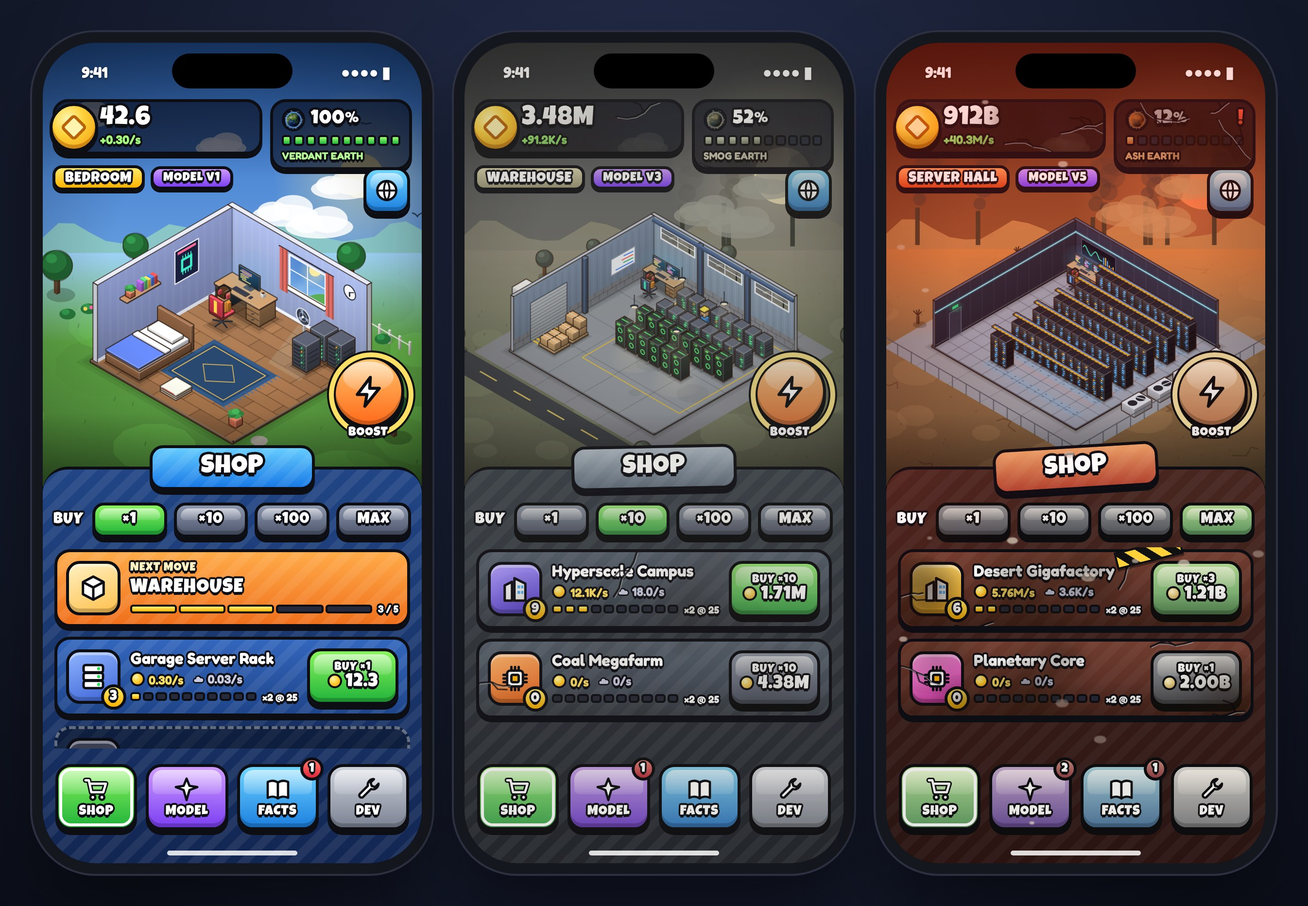
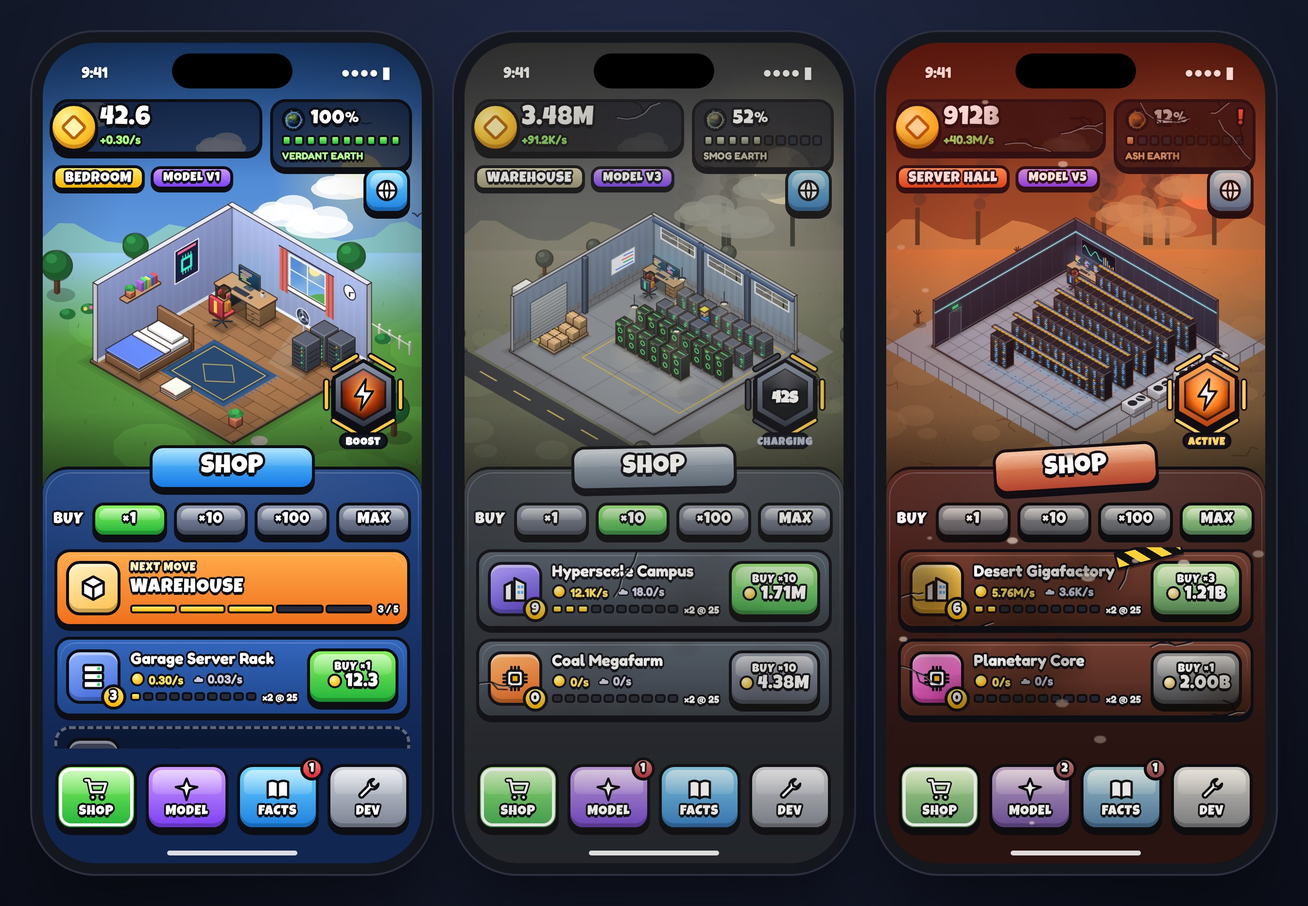
Overclock: hexagon BOOST chip and cleaner shop panels
Replace the round boost button with a hexagon power chip (gunmetal rim,
glowing core, six charge segments, countdown while charging). Drop the
diagonal stripes from the shop panel, cards and title sign in favour of
clean gradients, a soft top sheen and a fine inner highlight line.

Claude-Session: https://claude.ai/code/session_019oEr4YfADVvZkBAHFHi6AN

diff --git a/Overclock.swiftpm/ContentView.swift b/Overclock.swiftpm/ContentView.swift
@@ -286,37 +286,59 @@ struct BoostButton: View {
         let ready = game.overclockReady
         let activeLeft = max(0, game.overclockUntil.timeIntervalSince(now))
         let coolLeft = max(0, game.overclockReadyAt.timeIntervalSince(now))
-        let progress: Double = active ? activeLeft / Config.overclockSeconds : (ready ? 1 : 1 - coolLeft / Config.overclockCooldown)
-        let label = active ? "\(Int(activeLeft.rounded(.up)))s" : (ready ? "BOOST" : "\(Int(coolLeft.rounded(.up)))s")
-        let face = Arcade.colors(ready || active ? .orange : .slate, decay: 1 - health / 100)
-        let ring = ready || active ? Color(red: 1, green: 0.88, blue: 0.4) : Color(white: 0.75)
+        let charge: Double = active ? activeLeft / Config.overclockSeconds : (ready ? 1 : 1 - coolLeft / Config.overclockCooldown)
+        let lit = Int((min(1, max(0, charge)) * 6).rounded(.down))
+        let decay = 1 - health / 100
+        let rim: (RGB, RGB) = active ? (RGB(1, 0.69, 0.36), RGB(0.72, 0.25, 0.05)) : (RGB(0.56, 0.6, 0.68), RGB(0.17, 0.19, 0.24))
+        let core: [Color] = active
+            ? [Color(red: 1, green: 0.88, blue: 0.54), Color(red: 1, green: 0.48, blue: 0.1), Color(red: 0.35, green: 0.09, blue: 0.02)]
+            : (ready
+                ? [Color(red: 1, green: 0.6, blue: 0.24), Color(red: 0.66, green: 0.2, blue: 0.04), Color(red: 0.16, green: 0.05, blue: 0.02)]
+                : [Color(red: 0.23, green: 0.25, blue: 0.3), Color(red: 0.08, green: 0.09, blue: 0.11)])
+        let segmentOn = active ? Color(red: 1, green: 0.83, blue: 0.42) : Color(red: 1, green: 0.78, blue: 0.27)
+        let label = active ? "ACTIVE" : (ready ? "BOOST" : "CHARGING")
+        let labelColor = active ? Color(red: 1, green: 0.83, blue: 0.42) : (ready ? Color.white : Color(white: 0.7))
+        let pulse = active ? 0.5 + 0.5 * sin(now.timeIntervalSinceReferenceDate * 8) : 0
         Button {
             game.overclock()
         } label: {
-            ZStack {
-                Circle().stroke(Arcade.ink, lineWidth: 9)
-                    .frame(width: 84, height: 84)
-                Circle().trim(from: 0, to: min(1, max(0, progress)))
-                    .stroke(ring, style: StrokeStyle(lineWidth: 5, lineCap: .round))
-                    .rotationEffect(.degrees(-90))
-                    .frame(width: 84, height: 84)
-                OutlinedSymbol("bolt.fill", size: 30)
-                    .frame(width: 70, height: 70)
-                    .background(ArcadeFace(top: face.0, bottom: face.1, radius: 35))
-                    .background(Circle().fill(Arcade.ink).offset(y: 4))
-                    .scaleEffect(active ? 1 + 0.05 * sin(now.timeIntervalSinceReferenceDate * 10) : 1)
+            VStack(spacing: 0) {
+                ZStack {
+                    ChargeSegments(lit: lit, on: segmentOn)
+                    Hexagon(corner: 7).fill(Arcade.ink)
+                        .frame(width: 70, height: 70)
+                        .offset(y: 4)
+                    Hexagon(corner: 7)
+                        .fill(LinearGradient(colors: [Arcade.weathered(rim.0, decay).color, Arcade.weathered(rim.1, decay).color], startPoint: .top, endPoint: .bottom))
+                        .frame(width: 70, height: 70)
+                    Hexagon(corner: 7).stroke(Arcade.ink, lineWidth: 3.5)
+                        .frame(width: 70, height: 70)
+                    Hexagon(corner: 5)
+                        .fill(RadialGradient(colors: core, center: UnitPoint(x: 0.5, y: 0.42), startRadius: 0, endRadius: 32))
+                        .frame(width: 52, height: 52)
+                    Hexagon(corner: 5)
+                        .fill(LinearGradient(colors: [Color.white.opacity(0.35), Color.white.opacity(0)], startPoint: .top, endPoint: .center))
+                        .frame(width: 52, height: 52)
+                    Hexagon(corner: 5).stroke(Arcade.ink.opacity(0.8), lineWidth: 2)
+                        .frame(width: 52, height: 52)
+                    if ready || active {
+                        OutlinedSymbol("bolt.fill", size: 22)
+                            .shadow(color: Color(red: 1, green: 0.7, blue: 0.28).opacity(0.55 + 0.45 * pulse), radius: 5 + 4 * pulse)
+                    } else {
+                        StrokeText("\(Int(coolLeft.rounded(.up)))s", size: 16)
+                    }
+                }
+                .frame(width: 90, height: 90)
+                StrokeText(label, size: 11, color: labelColor, stroke: 1.2)
+                    .padding(.horizontal, 6)
+                    .background(Capsule().fill(Color(red: 0.03, green: 0.05, blue: 0.11).opacity(0.85)))
+                    .overlay(Capsule().strokeBorder(Arcade.ink, lineWidth: 2.5))
+                    .offset(y: -6)
             }
-            .frame(width: 92, height: 92)
         }
         .buttonStyle(PressScale())
         .disabled(!ready)
-        .overlay(alignment: .bottom) {
-            StrokeText(label, size: 14)
-                .offset(y: 16)
-                .allowsHitTesting(false)
-        }
-        .padding(.bottom, 12)
-        .accessibilityLabel(ready ? "Boost: double income and triple pollution for 10 seconds" : "Boost recharging")
+        .accessibilityLabel(ready ? "Boost: double income and triple pollution for 10 seconds" : (active ? "Boost active" : "Boost charging"))
     }
 }
 
@@ -351,9 +373,14 @@ struct ShopSheet: View {
         }
         .background(
             ZStack {
-                shape.fill(LinearGradient(colors: [Palette.c(Arcade.bodyTop, health), Palette.c(Arcade.bodyBottom, health)], startPoint: .top, endPoint: .bottom))
-                Stripes(opacity: 0.07 - 0.04 * decay).clipShape(shape)
+                shape.fill(LinearGradient(colors: [Palette.c(Arcade.bodyTop, health), Palette.c(Arcade.bodyBottom, health)],
+                                          startPoint: .top, endPoint: UnitPoint(x: 0.5, y: 0.7)))
+                shape.fill(RadialGradient(colors: [Color.white.opacity(0.10 - 0.04 * decay), Color.white.opacity(0)],
+                                          center: .top, startRadius: 0, endRadius: 240))
                 Wear(seed: 11).clipShape(shape)
+                TopRounded(radius: 23)
+                    .stroke(LinearGradient(colors: [Color.white.opacity(0.2), Color.white.opacity(0)], startPoint: .top, endPoint: UnitPoint(x: 0.5, y: 0.25)), lineWidth: 1.5)
+                    .padding(3)
                 shape.stroke(Arcade.ink, lineWidth: 3)
             }
             .ignoresSafeArea(edges: .bottom)
@@ -378,10 +405,8 @@ struct TitleBlock: View {
             .frame(height: 48)
             .background(
                 ZStack {
-                    shape.fill(LinearGradient(colors: [Palette.c(Arcade.headerTop, health), Palette.c(Arcade.headerBottom, health)], startPoint: .top, endPoint: .bottom))
-                    Stripes(opacity: 0.12).clipShape(shape)
+                    ArcadeFace(top: Palette.c(Arcade.headerTop, health), bottom: Palette.c(Arcade.headerBottom, health), radius: 14)
                     Wear(seed: 5).clipShape(shape)
-                    shape.strokeBorder(Arcade.ink, lineWidth: 3)
                 }
             )
             .background(shape.fill(Arcade.ink).offset(y: 5))

diff --git a/Overclock.swiftpm/Arcade.swift b/Overclock.swiftpm/Arcade.swift
@@ -374,27 +374,6 @@ struct PressScale: ButtonStyle {
     }
 }
 
-/// Diagonal stripes, the classic arcade panel texture.
-struct Stripes: View {
-    var opacity: Double = 0.07
-    var spacing: CGFloat = 18
-
-    var body: some View {
-        Canvas { ctx, size in
-            var p = Path()
-            var x: CGFloat = -size.height
-            while x < size.width + size.height {
-                p.move(to: CGPoint(x: x, y: size.height))
-                p.addLine(to: CGPoint(x: x + size.height, y: 0))
-                x += spacing
-            }
-            ctx.stroke(p, with: .color(Color.white.opacity(opacity)), lineWidth: spacing / 2)
-        }
-        .allowsHitTesting(false)
-        .accessibilityHidden(true)
-    }
-}
-
 /// Grime and cracks that appear as the planet dies.
 struct Wear: View {
     var seed: Int
@@ -493,8 +472,9 @@ struct ArcadePanel: ViewModifier {
                         shape.fill(Color.black.opacity(0.35))
                     } else {
                         shape.fill(LinearGradient(colors: [Palette.c(top, health), Palette.c(bottom, health)], startPoint: .top, endPoint: .bottom))
-                        Stripes(opacity: 0.07 - 0.04 * decay).clipShape(shape)
                         Wear(seed: seed).clipShape(shape)
+                        shape.inset(by: 4)
+                            .stroke(LinearGradient(colors: [Color.white.opacity(0.24 - 0.1 * decay), Color.white.opacity(0)], startPoint: .top, endPoint: .center), lineWidth: 1.5)
                     }
                     if dashed {
                         shape.strokeBorder(Color.white.opacity(0.35), style: StrokeStyle(lineWidth: 3, dash: [8, 6]))
@@ -510,6 +490,56 @@ struct ArcadePanel: ViewModifier {
 extension View {
     func arcadePanel(seed: Int = 0, top: Palette.Triple = Arcade.cardTop, bottom: Palette.Triple = Arcade.cardBottom, radius: CGFloat = 16, dashed: Bool = false) -> some View {
         modifier(ArcadePanel(seed: seed, top: top, bottom: bottom, radius: radius, dashed: dashed))
+    }
+}
+
+/// A pointy-top hexagon with softly rounded corners (the boost button).
+struct Hexagon: Shape {
+    var corner: CGFloat = 6
+
+    func path(in r: CGRect) -> Path {
+        let center = CGPoint(x: r.midX, y: r.midY)
+        let radius = min(r.width, r.height) / 2
+        let pts = (0..<6).map { i -> CGPoint in
+            let a = Double(i) * Double.pi / 3 - Double.pi / 2
+            return CGPoint(x: Double(center.x) + cos(a) * Double(radius), y: Double(center.y) + sin(a) * Double(radius))
+        }
+        var p = Path()
+        p.move(to: CGPoint(x: (pts[5].x + pts[0].x) / 2, y: (pts[5].y + pts[0].y) / 2))
+        for i in 0..<6 {
+            p.addArc(tangent1End: pts[i], tangent2End: pts[(i + 1) % 6], radius: corner)
+        }
+        p.closeSubpath()
+        return p
+    }
+}
+
+/// Six segments around the boost hexagon that light up as it charges.
+struct ChargeSegments: View {
+    let lit: Int
+    let on: Color
+
+    var body: some View {
+        Canvas { ctx, size in
+            let cx = Double(size.width) / 2
+            let cy = Double(size.height) / 2
+            let r = Double(min(size.width, size.height)) / 2 - 4
+            let pts = (0..<6).map { i -> CGPoint in
+                let a = Double(i) * Double.pi / 3 - Double.pi / 2
+                return CGPoint(x: cx + cos(a) * r, y: cy + sin(a) * r)
+            }
+            for i in 0..<6 {
+                let p = pts[i]
+                let q = pts[(i + 1) % 6]
+                var seg = Path()
+                seg.move(to: CGPoint(x: p.x + (q.x - p.x) * 0.2, y: p.y + (q.y - p.y) * 0.2))
+                seg.addLine(to: CGPoint(x: p.x + (q.x - p.x) * 0.8, y: p.y + (q.y - p.y) * 0.8))
+                ctx.stroke(seg, with: .color(Arcade.ink), style: StrokeStyle(lineWidth: 7, lineCap: .round))
+                ctx.stroke(seg, with: .color(i < lit ? on : Color(red: 0.23, green: 0.25, blue: 0.3)), style: StrokeStyle(lineWidth: 3.5, lineCap: .round))
+            }
+        }
+        .allowsHitTesting(false)
+        .accessibilityHidden(true)
     }
 }
 

diff --git a/README.md b/README.md
@@ -11,7 +11,7 @@ Grow an AI company from one server rack to a planet-wide compute empire while th
 
 ![Overclock at 100%, 52% and 12% Earth Health](guide/overclock-arcade.jpg)
 
-**The look.** An arcade / simulator-game style: glossy buttons with thick black outlines, white text with a heavy stroke, striped SHOP panel, coin counter, big square menu buttons with red badges, and a round BOOST button. Fonts: Luckiest Guy and Fredoka (bundled in `Fonts/`, free licences included).
+**The look.** An arcade / simulator-game style: glossy buttons with thick black outlines, white text with a heavy stroke, clean SHOP panel with soft gradients, coin counter, big square menu buttons with red badges, and a hexagon BOOST chip with charge segments. Fonts: Luckiest Guy and Fredoka (bundled in `Fonts/`, free licences included).
 
 **Everything decays with the planet.**
 - The UI fades from bright blue to grey to rust red. Grime, cracks and hazard tape appear, the SHOP sign tilts, and in the last phase ash falls over the screen with a red alarm glow.
